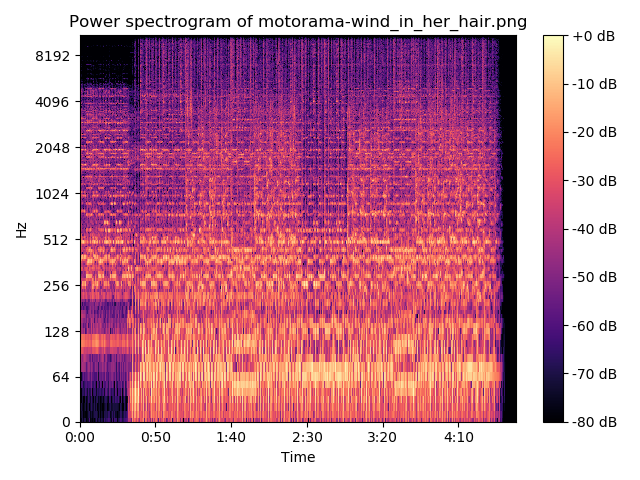
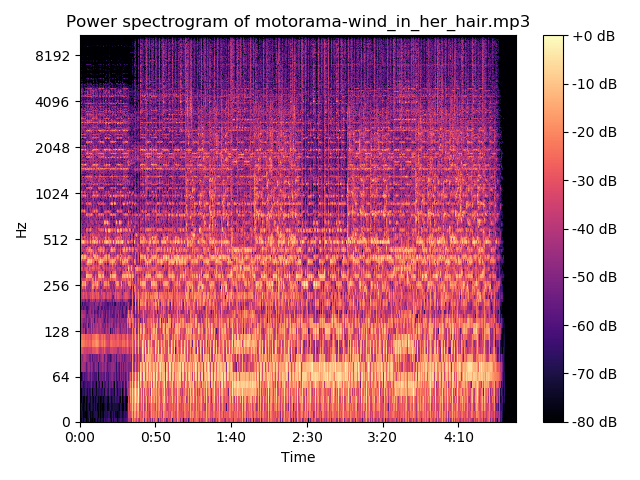
update task 1

Changed region(s): [[0.0938, 0.0312, 0.8438, 0.0625]]

diff --git a/task_1.flask_service/main.py b/task_1.flask_service/main.py
@@ -7,7 +7,7 @@ import matplotlib.pyplot as plt
 import numpy as np
 
 
-upload_folder = os.path.abspath(os.getcwd()) + os.path.sep + 'uploads'
+upload_folder = os.path.abspath(os.getcwd()) + os.path.sep + 'uploads' + os.path.sep
 allowed_extension = {"mp3", }
 app = Flask(__name__)
 app.config['UPLOAD_FOLDER'] = upload_folder
@@ -15,12 +15,6 @@ app.config['UPLOAD_FOLDER'] = upload_folder
 
 def allowed_file(filename):
     return '.' in filename and filename.rsplit('.', 1)[1].lower() in allowed_extension
-
-
-# @app.route('/uploads/<filename>')
-# def uploaded_file(filename):
-#     return send_from_directory(app.config['UPLOAD_FOLDER'],
-#                                filename)
 
 
 def get_freq_from_music(file):
@@ -32,7 +26,7 @@ def get_freq_from_music(file):
     return y_db_max
 
 
-def save_music_ft_picture(y, file_name):
+def save_music_ft_picture(y, file_name, format):
     figure = plt.figure()
 
     librosa.display.specshow(
@@ -44,8 +38,11 @@ def save_music_ft_picture(y, file_name):
     plt.title(f'Power spectrogram of {file_name}')
     plt.colorbar(format='%+2.0f dB')
     plt.tight_layout()
-    result_path = upload_folder + os.path.sep + file_name
+
+    file_name = set_picture_format(file_name, format)
+    result_path = upload_folder + file_name
     figure.savefig(result_path)
+    return result_path
 
 
 def set_picture_format(filename: str, frmt: str):
@@ -64,8 +61,7 @@ def upload_file():
             file.save(filepath)
             y = get_freq_from_music(filepath)
 
-            picture_name = set_picture_format(filename, "png")
-            save_music_ft_picture(y, picture_name)
+            pic_path = save_music_ft_picture(y, filename, "png")
             return f'''
 <!doctype html>
 <head>
@@ -73,7 +69,7 @@ def upload_file():
     <title>Picture</title>
 </head>
 <body>
-    <img src="uploads/{picture_name}" />
+    <img src="{pic_path}" />
 </body>
 </html>
  '''
